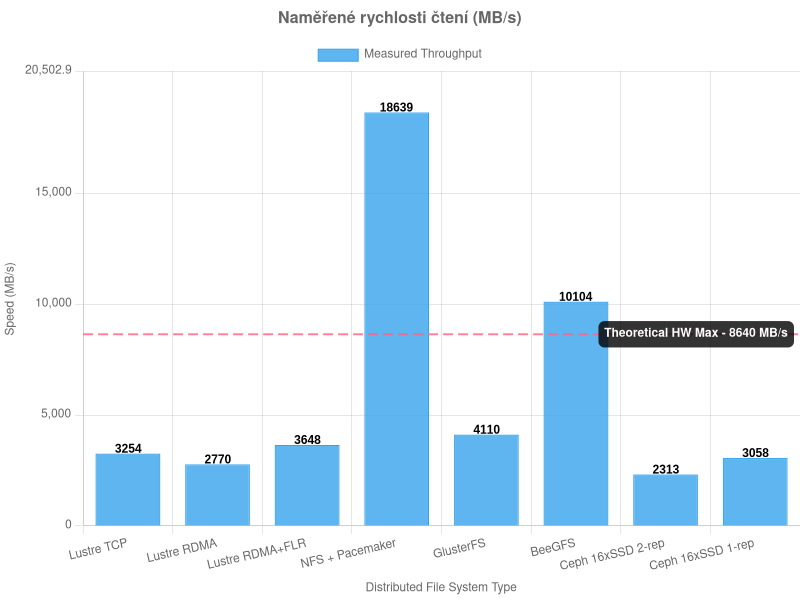
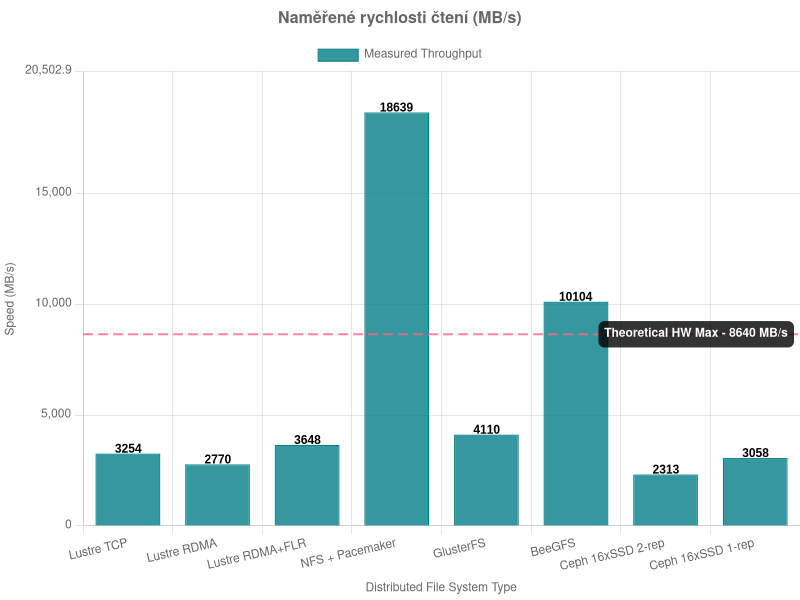
Update chart colors to UJEP teal

diff --git a/data/index.ts b/data/index.ts
@@ -78,8 +78,8 @@ async function createPerformanceChart(title: string, filesystems: string[], spee
         {
           label: "Measured Throughput",
           data: speeds,
-          backgroundColor: "rgba(54, 162, 235, 0.8)",
-          borderColor: "rgba(54, 162, 235, 1)",
+          backgroundColor: "rgba(3, 126, 134, 0.8)",
+          borderColor: "rgba(3, 126, 134, 1)",
           borderWidth: 1,
         },
       ],
